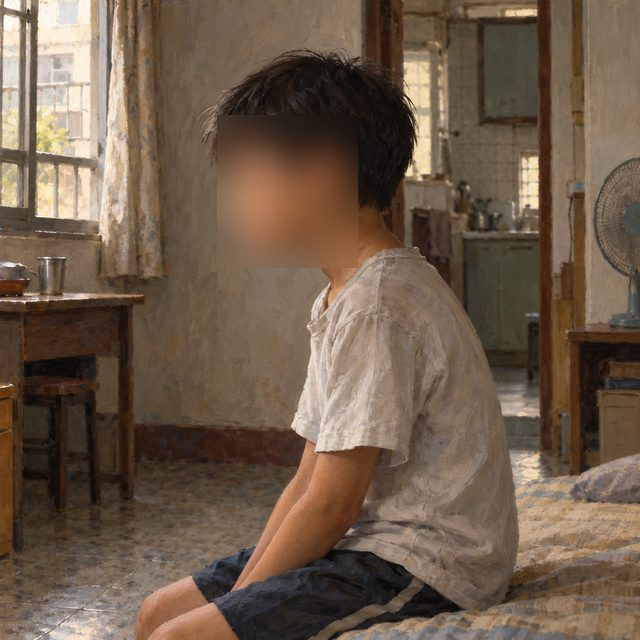
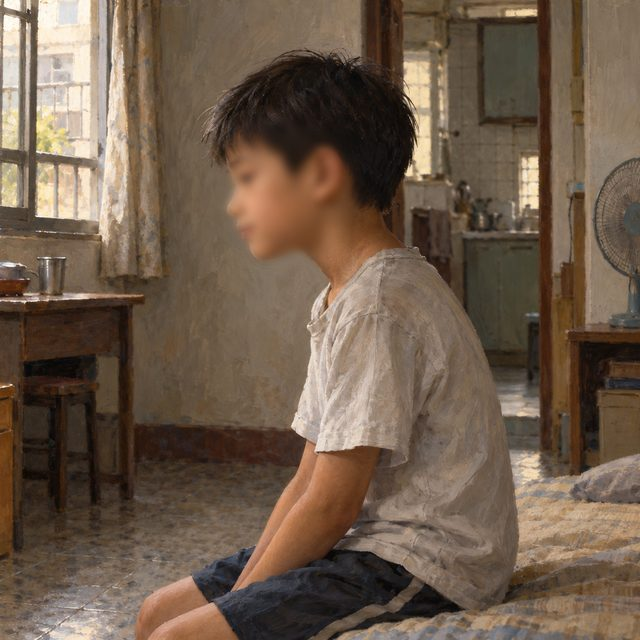
Add beneficiary gender attribute; use light feathered face blur that keeps expressions visible

Changed region(s): [[0.3438, 0.1875, 0.5625, 0.3438], [0.375, 0.375, 0.4375, 0.4062]]

diff --git a/index.html b/index.html
@@ -221,21 +221,23 @@ function leastUsed(n, use, exclude){
   use[i] = (use[i] || 0) + 1; exclude.add(i); return i;
 }
 
-function pickImage(cat, style, expr, avoid){
-  const pool = STIM.filter(m => m.category === cat && m.style === style && m.variants[expr] && !avoid.has(m.id));
+function pickImage(cat, style, expr, gender, avoid){
+  const ok = m => m.category === cat && m.variants[expr] && (gender === "na" || m.gender === gender);
+  const pool = STIM.filter(m => ok(m) && m.style === style && !avoid.has(m.id));
   const fresh = pool.filter(m => !S.usedImg.has(m.id));
   let m;
   if (fresh.length) m = pick(fresh);
   else if (pool.length) { m = pick(pool); S.reusedImg++; }
-  else { m = pick(STIM.filter(x => x.category === cat && x.variants[expr] && !avoid.has(x.id))) || pick(STIM.filter(x => x.category === cat && x.variants[expr])); S.reusedImg++; }
+  else { m = pick(STIM.filter(x => ok(x) && !avoid.has(x.id))) || pick(STIM.filter(ok)); S.reusedImg++; }
   S.usedImg.add(m.id); return m;
 }
 function makeCard(cat, style, disclosure, avoid, used){
   const expr = pick(C.levels.expression);
-  const img = pickImage(cat, style, expr, avoid);
+  const gender = cat === "animal" ? "na" : pick(C.levels.gender);
+  const img = pickImage(cat, style, expr, gender, avoid);
   avoid.add(img.id);
   const mask = img.maskable ? pick(C.levels.mask) : "na";
-  return { cat, style: img.style, expr, disclosure, mask, img: img.id,
+  return { cat, gender, style: img.style, expr, disclosure, mask, img: img.id,
            src: "img/" + img.variants[expr][mask === "na" ? "none" : mask],
            title: leastUsed(TITLES.length, S.titleUse, used.t), org: leastUsed(C.orgs.length, S.orgUse, used.o) };
 }
@@ -247,7 +249,7 @@ function makeNormalCards(){
     return makeCard(cat, pick(C.levels.style), d, avoid, used);
   });
 }
-function cardCode(c){ return [c.cat, c.style, c.expr, c.disclosure, c.mask, c.img, "t" + TITLES[c.title].id, "o" + c.org].join("|"); }
+function cardCode(c){ return [c.cat, c.gender, c.style, c.expr, c.disclosure, c.mask, c.img, "t" + TITLES[c.title].id, "o" + c.org].join("|"); }
 
 const SPARK = '<svg viewBox="0 0 24 24" fill="#fff"><path d="M12 1.5l2.6 7.9 7.9 2.6-7.9 2.6L12 22.5l-2.6-7.9L1.5 12l7.9-2.6z"/></svg>';
 function discHTML(d){

diff --git a/config.js b/config.js
@@ -23,7 +23,8 @@ window.ABI_CONFIG = {
     style: ["photo", "painting", "cartoon"],
     disclosure: ["none", "text-edge", "text-center", "icon-edge", "icon-center"],
     mask: ["none", "eye", "blur"],
-    expression: ["sad", "smile"]   // 2026-10-26 使用者選定；微笑版由同一張圖編輯而來
+    expression: ["sad", "smile"],  // 2026-10-26 使用者選定；微笑版由同一張圖編輯而來
+    gender: ["female", "male"]     // 2026-10-26 使用者選定；只用於人（兒童、長者），動物記為 na
   },
   disclosureText: "AI 生成影像",
   // 專案名稱：句型固定「前半｜後半計畫」，只換可互換的位置；9 種組合語意等值（使用者 2026-10-26）
